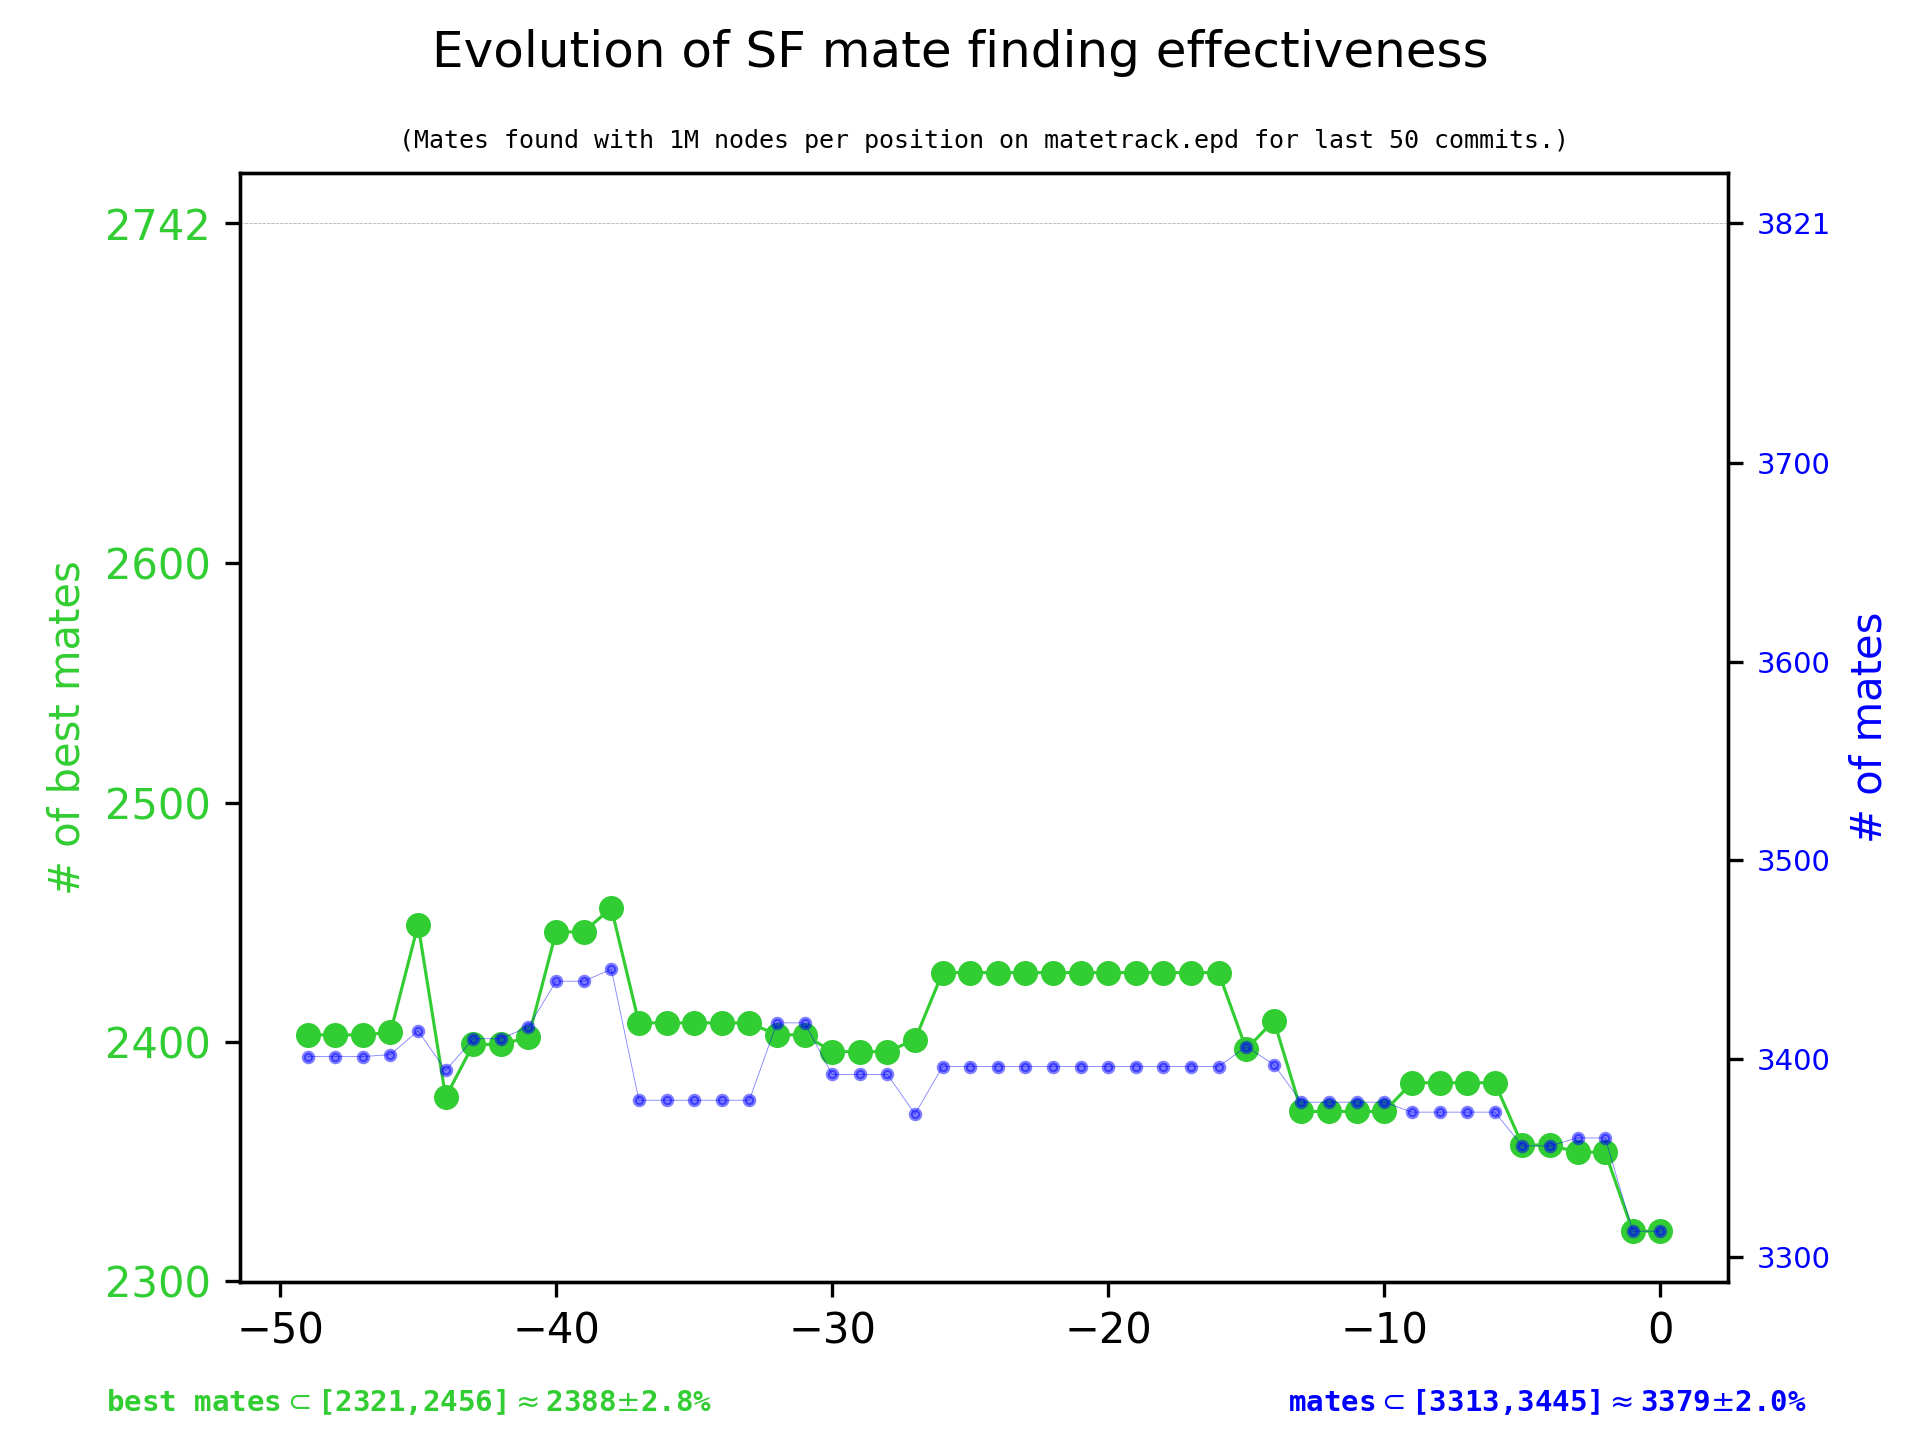
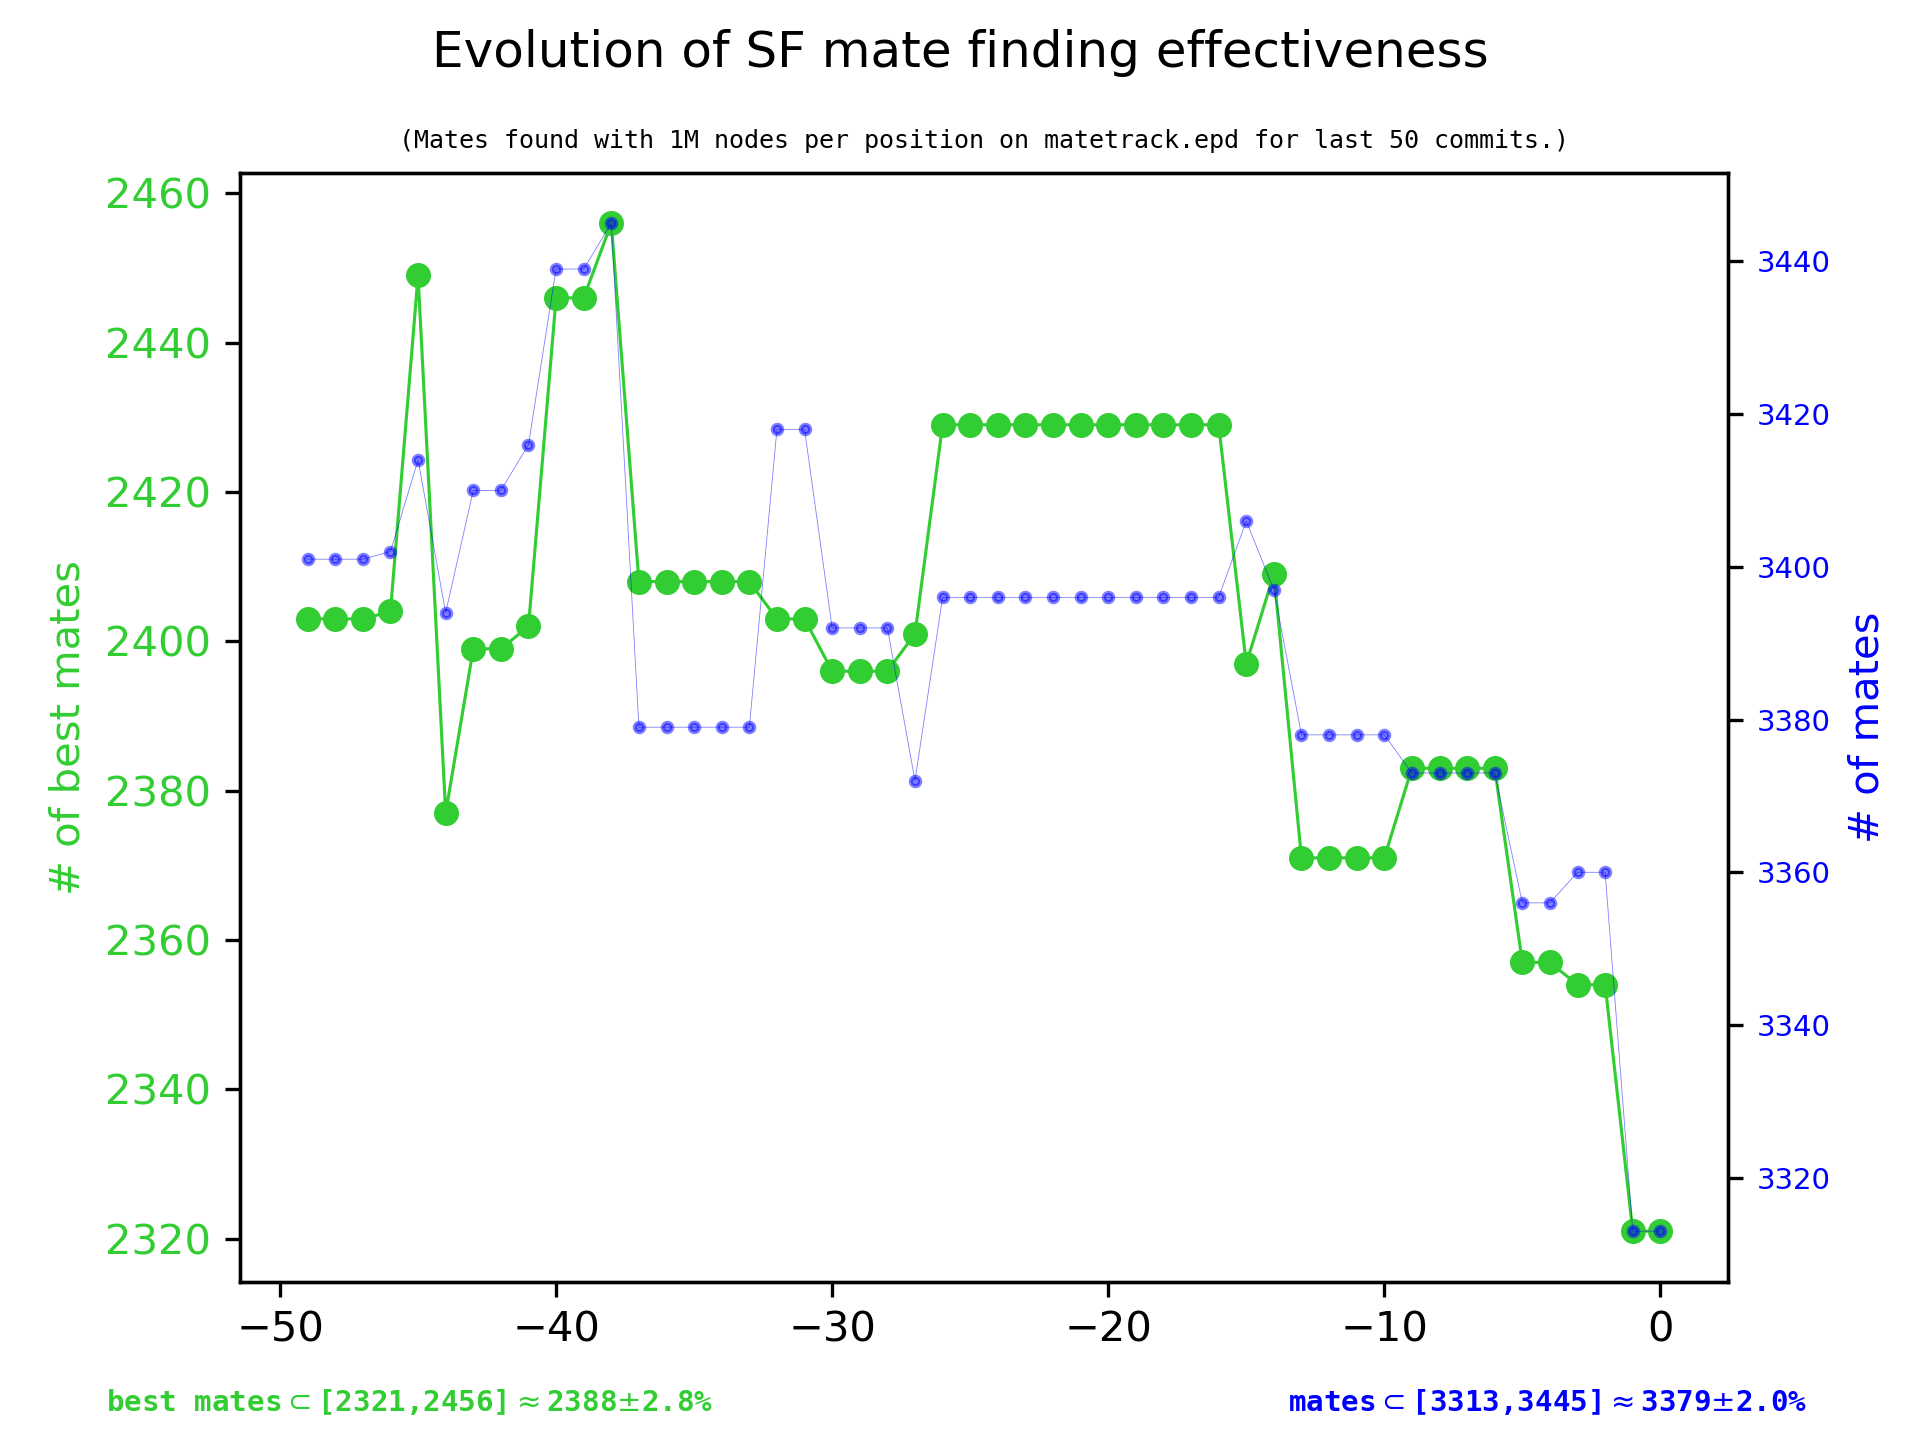
disable GOAT lines in recent commit plot (#140)

diff --git a/plotdata.py b/plotdata.py
@@ -28,7 +28,7 @@ class matedata:
                         )
                         self.tags.append(parts[-1])
 
-    def create_graph(self, plotAll=False):
+    def create_graph(self, plotAll=False, showGoatLines=False):
         # plotAll=True: full history, against date, single y-axis
         # plotAll=False: last 50 commits, against commit, two y-axes
         plotStart = 0 if plotAll else -50
@@ -148,7 +148,7 @@ class matedata:
                 fontsize=5,
                 weight="bold",
             )
-            if plotAll:
+            if plotAll or not showGoatLines:
                 continue
             usedAxis.axhline(
                 maxValue, color="silver", linestyle="dashed", linewidth=0.2
@@ -193,5 +193,5 @@ if __name__ == "__main__":
 
     prefix, _, _ = args.filename.partition(".csv")
     data = matedata(prefix)
-    data.create_graph()
+    data.create_graph(showGoatLines=False)
     data.create_graph(plotAll=True)
